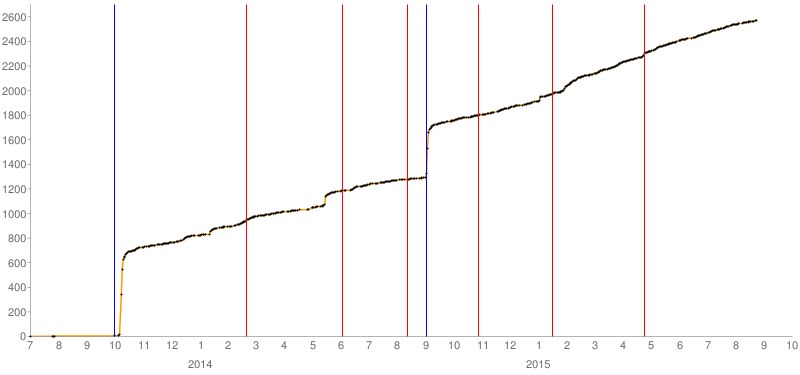
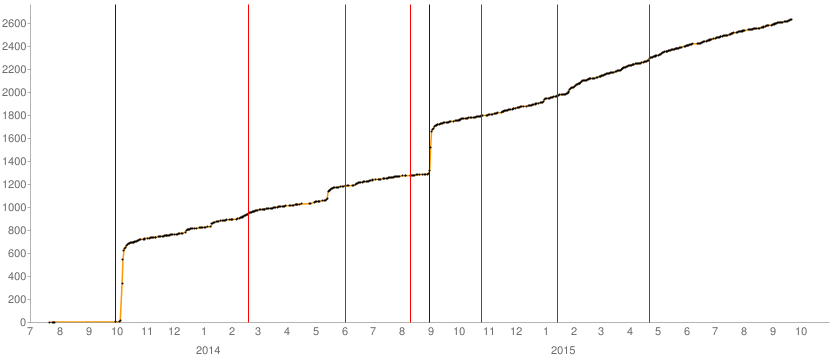
Improved generation of stargazers chart

diff --git a/8. apéndices/stargazers.js b/8. apéndices/stargazers.js
@@ -146,6 +146,44 @@ function accumulate(data)
   })
 }
 
+function getChx(begin, end)
+{
+  begin = new Date(begin)
+
+  var months = []
+  var years  = []
+
+  while(begin <= end)
+  {
+    if(begin.getDate() === 1)
+    {
+      months.push(begin.getMonth()+1)
+      years.push(begin.getMonth() === 0 ? begin.getFullYear() : '')
+    }
+    else
+      months.push('')
+
+    begin.setDate(begin.getDate()+1)
+  }
+
+  var result =
+  {
+    chxl: '0:|'+months.join('|'),
+    chxt: 'x,y'
+  }
+
+  // Show years axis if data spawns for over more than a natural year
+  for(var year in years)
+    if(year !== '')
+    {
+      result.chxl += '|2:|'+years.join('|')
+      result.chxt += ',x'
+      break
+    }
+
+  return result
+}
+
 
 var options =
 {
@@ -163,33 +201,15 @@ stargazers(USER, REPO, options, function(error, data)
 
   // Craft data to generate chart with Google Charts API
   var days       = []
-  var months     = []
-  var years      = []
   var stargazers = []
   var events     = []
 
   data.forEach(function(entry, index)
   {
-    var month = parseInt(entry.date.substr(5, 2))
-    if(month != months[months.length-1])
-    {
-      var year = entry.date.substr(0, 4)
-      year = (year !== years[years.length-1] && month === 1) ? year : ''
-
-      if(months.length)
-        while(months[months.length-1] < 12 && months[months.length-1]+1 != month)
-        {
-          months.push(months[months.length-1]+1)
-          years.push('')
-        }
-
-      months.push(month)
-      years.push(year)
-    }
-
     days.push(new Date(entry.date))
     stargazers.push(entry.stargazers)
 
+    // [ToDo] Allow to add events on days without data
     if(dates[0] <= entry.date)
     {
       dates.shift()
@@ -202,36 +222,35 @@ stargazers(USER, REPO, options, function(error, data)
     }
   })
 
-  months.push(months[months.length-1]+1)
-  years.push('')
+  // Simplify dates
+  var daysBegin = new Date(days[0])
+  var daysEnd   = new Date(days[days.length-1])
 
-  // Simplify days
-  var offsetDays = days[0].setDate(1)  // First day of month of the stargazer
+  daysBegin.setDate(1)  // First day of month of the first stargazer
+  if(daysEnd.getDate() !== 1)
+    daysEnd.setMonth(daysEnd.getMonth()+1, 1)  // First day of next month of the last stargazer
+
+  // Generate months and years
+  var chx = getChx(daysBegin, daysEnd)
+
+  // Get days from beginning of data
   days = days.map(function(day)
   {
-    return (day.getTime() - offsetDays)/MILLISECONDS_PER_DAY
+    return (day.getTime() - daysBegin)/MILLISECONDS_PER_DAY
   })
 
   // Request chart
+  var lastDay = days[days.length-1]
   var postData =
   {
     chd:  't:'+days.join(',')+'|'+stargazers.join(','),
     chds: 'a',
     chm:  'o,000000,0,-1,2'+'|'+events.join('|'),
-    chs:  '800x375',
+    chs:  lastDay+'x'+Math.floor(300000/lastDay),
     cht:  'lxy',
-    chxl: '0:|'+months.join('|'),
-    chxt: 'x,y'
+    chxl: chx.chxl,
+    chxt: chx.chxt
   }
-
-  // Show years axis if data spawns for over more than a natural year
-  for(var year in years)
-    if(year !== '')
-    {
-      postData.chxl += '|2:|'+years.join('|')
-      postData.chxt += ',x'
-      break
-    }
 
   postData = stringify(postData)
 
@@ -249,6 +268,8 @@ stargazers(USER, REPO, options, function(error, data)
 
   var req = request(options, function(res)
   {
+    if(res.statusCode !== 200) throw res.statusCode+': '+res.statusMessage
+
     res.pipe(createWriteStream('stargazers.png'))
   })
 
